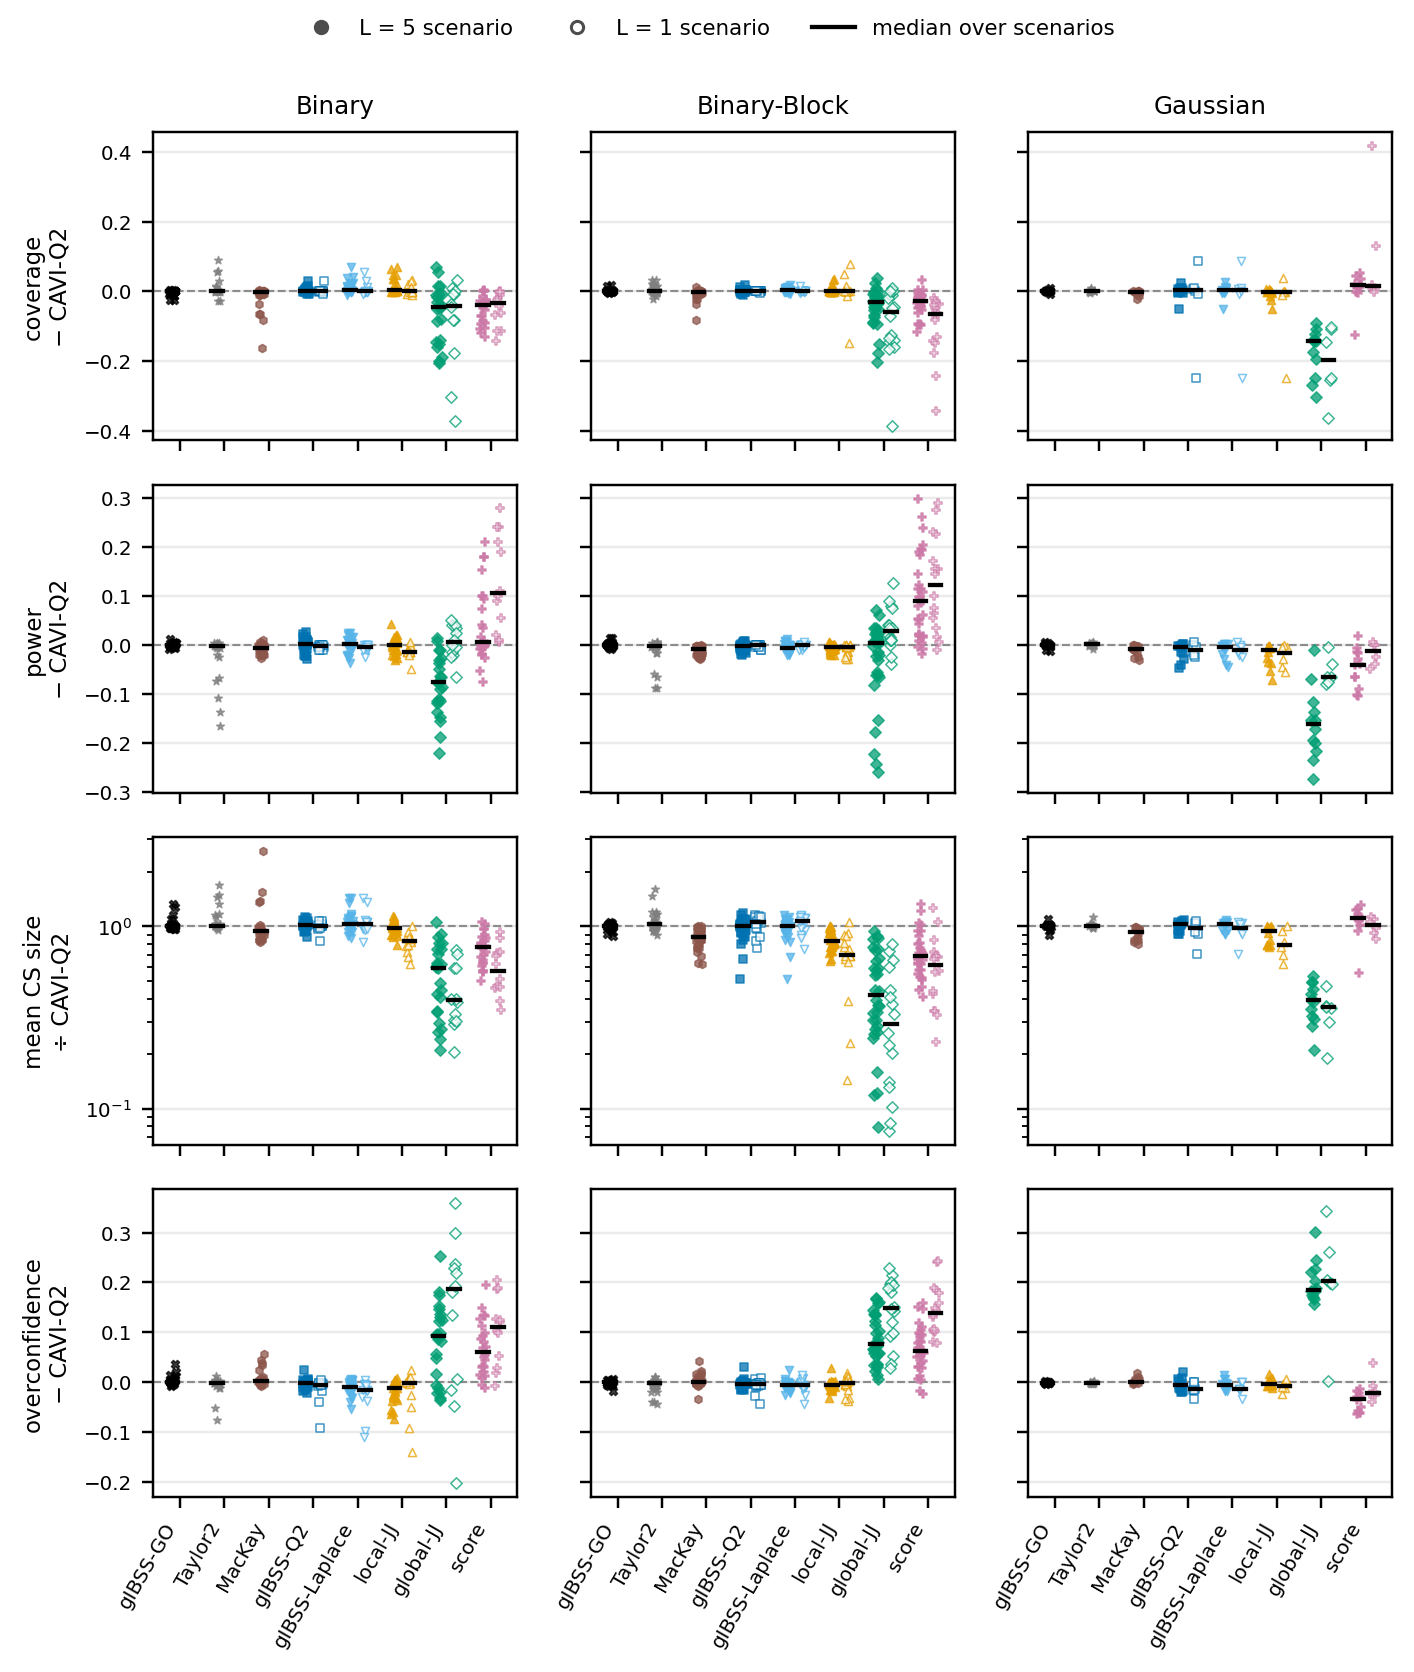
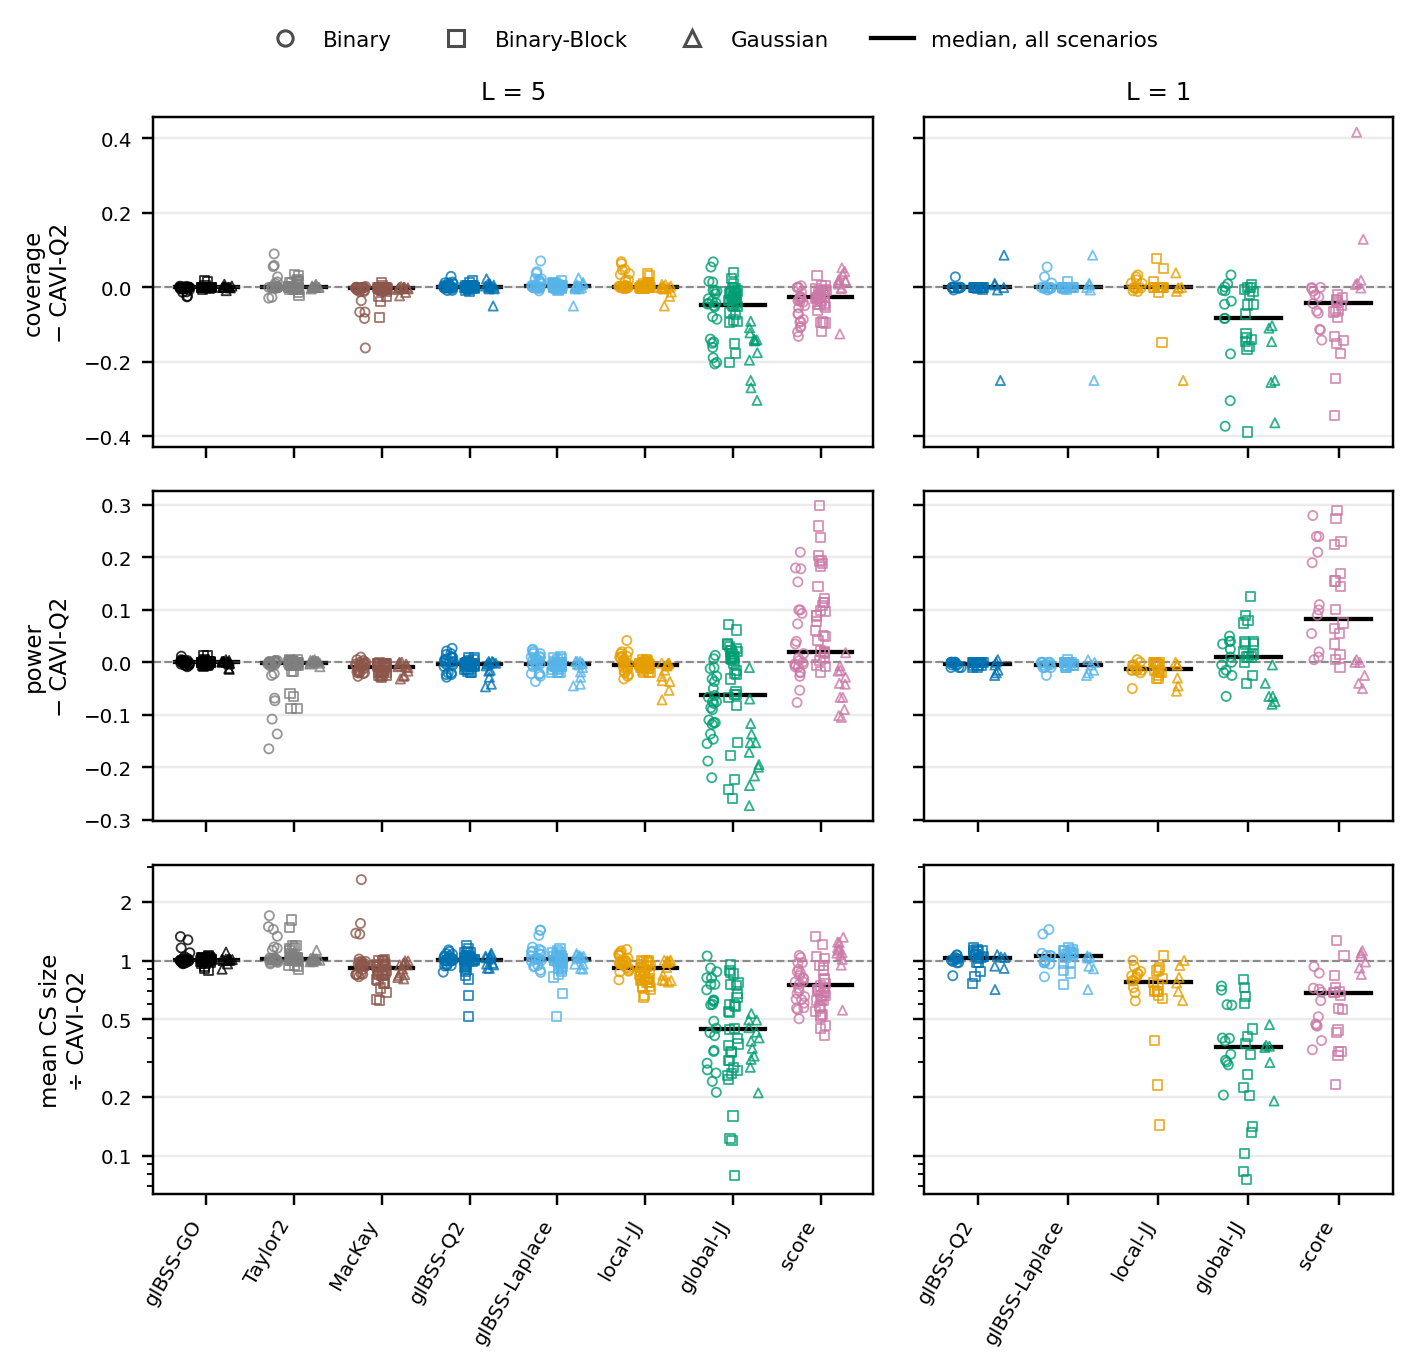
feat(twogroup): truth.qmd - one vs-CAVI figure pooling the designs
Marker = design, colour = arm, median over all scenarios; L=5 and L=1 side by side.

diff --git a/twogroup_experiments/analysis/logistic_laplace_simulations/truth.py b/twogroup_experiments/analysis/logistic_laplace_simulations/truth.py
@@ -436,7 +436,8 @@ def _arm_grid(rows: list[tuple[str, bool]], ms_by_L: dict[int, list[str]], title
                 ax.set_title(f"L = {L}", fontsize=8)
             if j == 0:
                 ax.set_ylabel(label, fontsize=7.5)
-    fig.suptitle(title, fontsize=8.5)
+    if title:
+        fig.suptitle(title, fontsize=8.5)
     return fig, axes, Ls
 
 
@@ -473,27 +474,42 @@ def cs_dot_figure(reps: pl.DataFrame, exp: str):
     return fig
 
 
-def vs_cavi_figure(sf: pl.DataFrame, exp: str, seed: int = 0):
-    """One design. Rows = VS_CAVI metrics, columns = L = 5 and L = 1, x = arm: one point per
-    scenario (jittered) and a black bar at the median over scenarios (geometric for the size
-    ratio). Dashed: no difference from CAVI-Q2."""
+DESIGN_MARKER = {"022": "o", "024": "s", "023": "^"}
+
+
+def vs_cavi_figure(sf: pl.DataFrame, seed: int = 0):
+    """All designs pooled. Rows = VS_CAVI metrics, columns = L = 5 and L = 1, x = arm: one point
+    per scenario, colour = arm, marker = design (offset within the arm, jittered); black bar =
+    median over all scenarios of all designs (geometric for the size ratio). Dashed: no
+    difference from CAVI-Q2."""
     rng = np.random.default_rng(seed)
-    d = sf.filter(pl.col("exp") == exp)
-    ms_by_L = {L: arms(d.filter(pl.col("L") == L)) for L in (5, 1)}
-    fig, axes, Ls = _arm_grid([(label, ratio) for _, label, ratio in VS_CAVI], ms_by_L, DESIGN[exp])
+    ms_by_L = {L: arms(sf.filter(pl.col("L") == L)) for L in (5, 1)}
+    fig, axes, Ls = _arm_grid([(label, ratio) for _, label, ratio in VS_CAVI], ms_by_L, "")
+    offs = {e: o for e, o in zip(EXPS, (-0.24, 0.0, 0.24))}
     for j, L in enumerate(Ls):
+        d = sf.filter(pl.col("L") == L)
         for i, (col, _label, ratio) in enumerate(VS_CAVI):
             ax = axes[i, j]
             ax.axhline(1.0 if ratio else 0.0, color="0.5", lw=0.7, ls="--", zorder=0)
             for k, m in enumerate(ms_by_L[L]):
-                y = d.filter((pl.col("method") == m) & (pl.col("L") == L))[col].drop_nulls().to_numpy()
-                y = y[np.isfinite(y)]
-                if y.size == 0:
-                    continue
-                c = R.METHOD_COLOR[m]
-                ax.scatter(k + rng.uniform(-0.18, 0.18, y.size), y, s=8, marker=R.METHOD_MARKER[m],
-                           color=c, linewidth=0, alpha=0.7, zorder=2)
-                med = np.exp(np.median(np.log(y))) if ratio else np.median(y)
-                ax.plot([k - 0.3, k + 0.3], [med, med], color="k", lw=1.4, zorder=3)
-    fig.tight_layout()
+                pooled = []
+                for exp in EXPS:
+                    y = d.filter((pl.col("method") == m) & (pl.col("exp") == exp))[col].drop_nulls().to_numpy()
+                    y = y[np.isfinite(y)]
+                    if y.size == 0:
+                        continue
+                    pooled.append(y)
+                    ax.scatter(k + offs[exp] + rng.uniform(-0.06, 0.06, y.size), y, s=9,
+                               marker=DESIGN_MARKER[exp], facecolor="none", edgecolor=R.METHOD_COLOR[m],
+                               linewidth=0.6, alpha=0.8, zorder=2)
+                if pooled:
+                    y = np.concatenate(pooled)
+                    med = np.exp(np.median(np.log(y))) if ratio else np.median(y)
+                    ax.plot([k - 0.36, k + 0.36], [med, med], color="k", lw=1.4, zorder=1)
+    from matplotlib.lines import Line2D
+    h = [Line2D([], [], color="0.3", marker=DESIGN_MARKER[e], mfc="none", ls="", ms=5, label=DESIGN[e])
+         for e in EXPS] + [Line2D([], [], color="k", lw=1.4, label="median, all scenarios")]
+    fig.legend(handles=h, loc="upper center", bbox_to_anchor=(0.5, 0.965), ncol=4, fontsize=7,
+               frameon=False)
+    fig.tight_layout(rect=(0, 0, 1, 0.94))
     return fig
